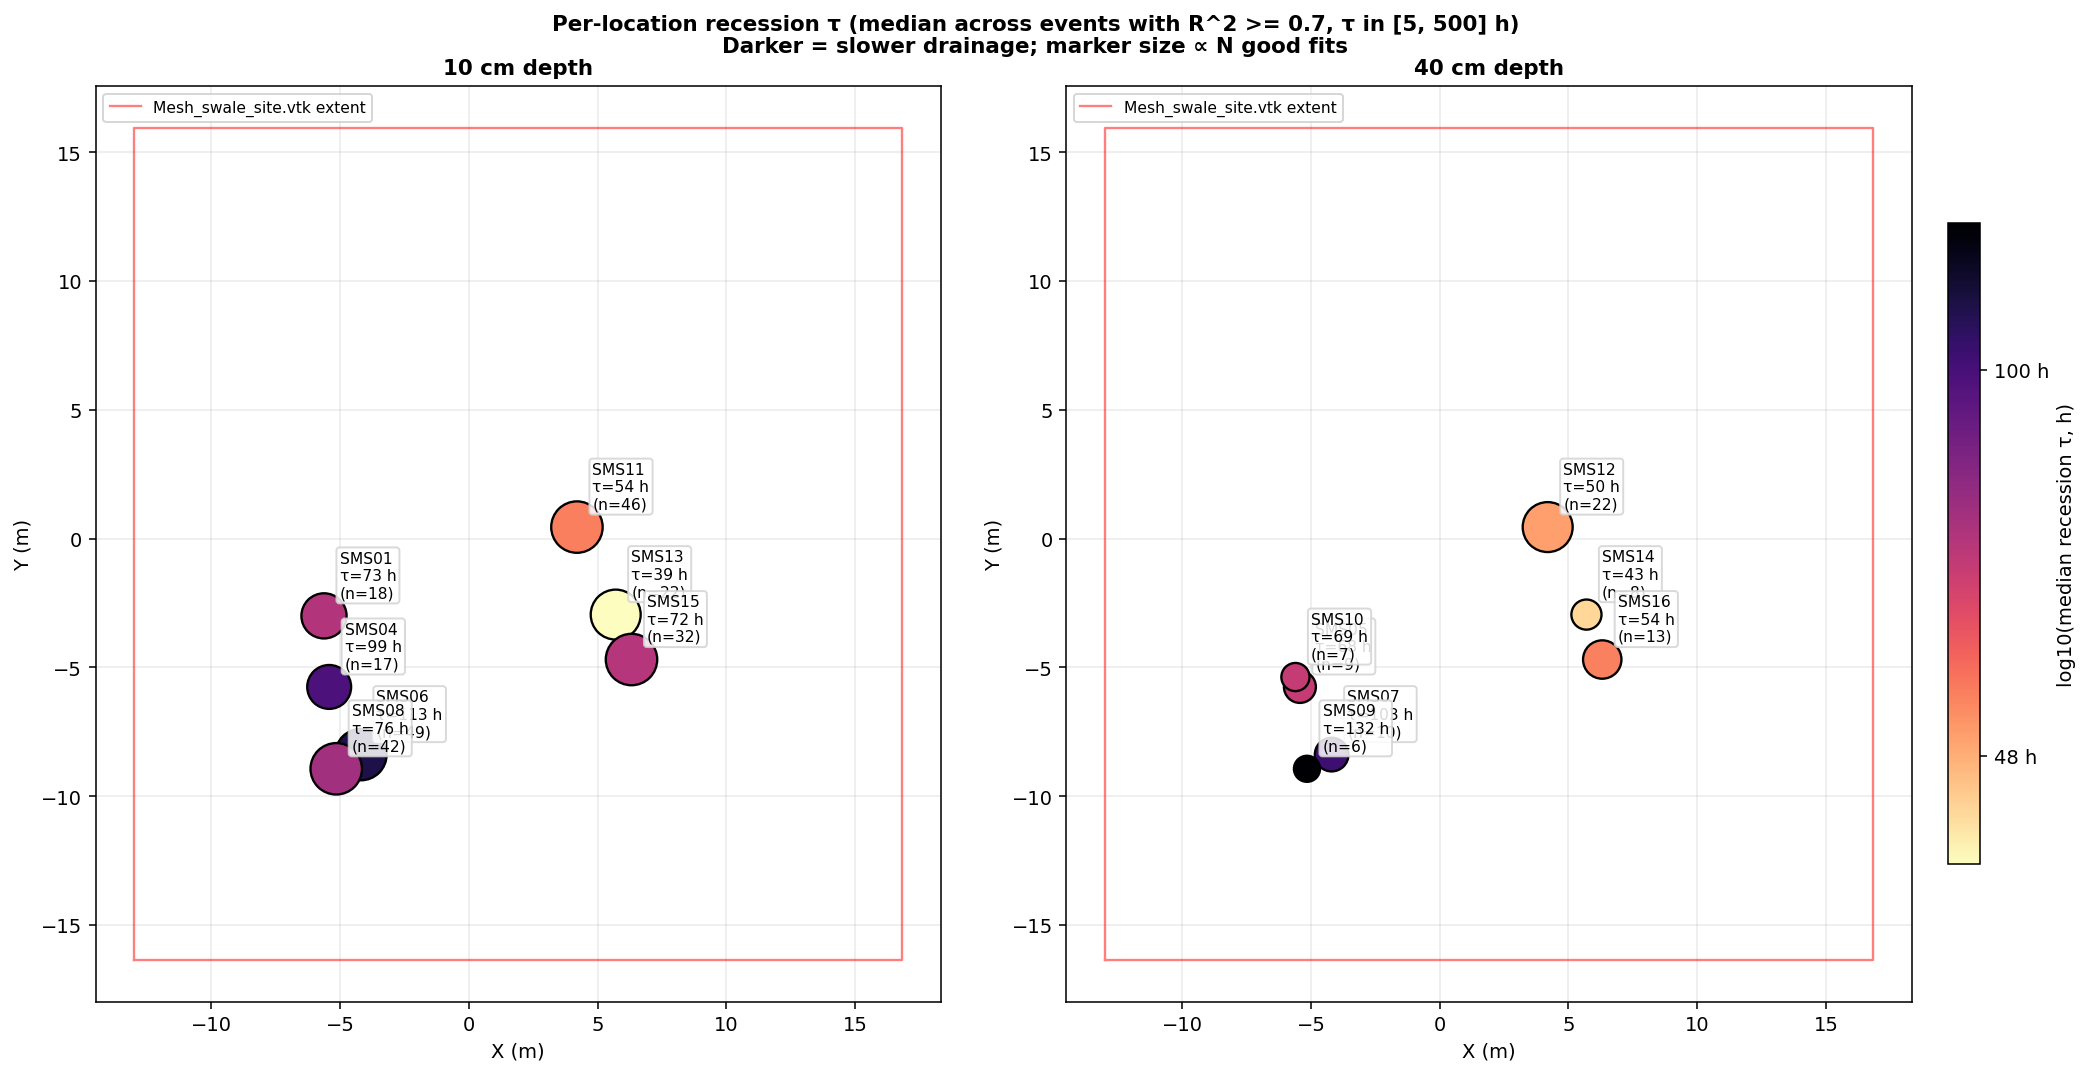
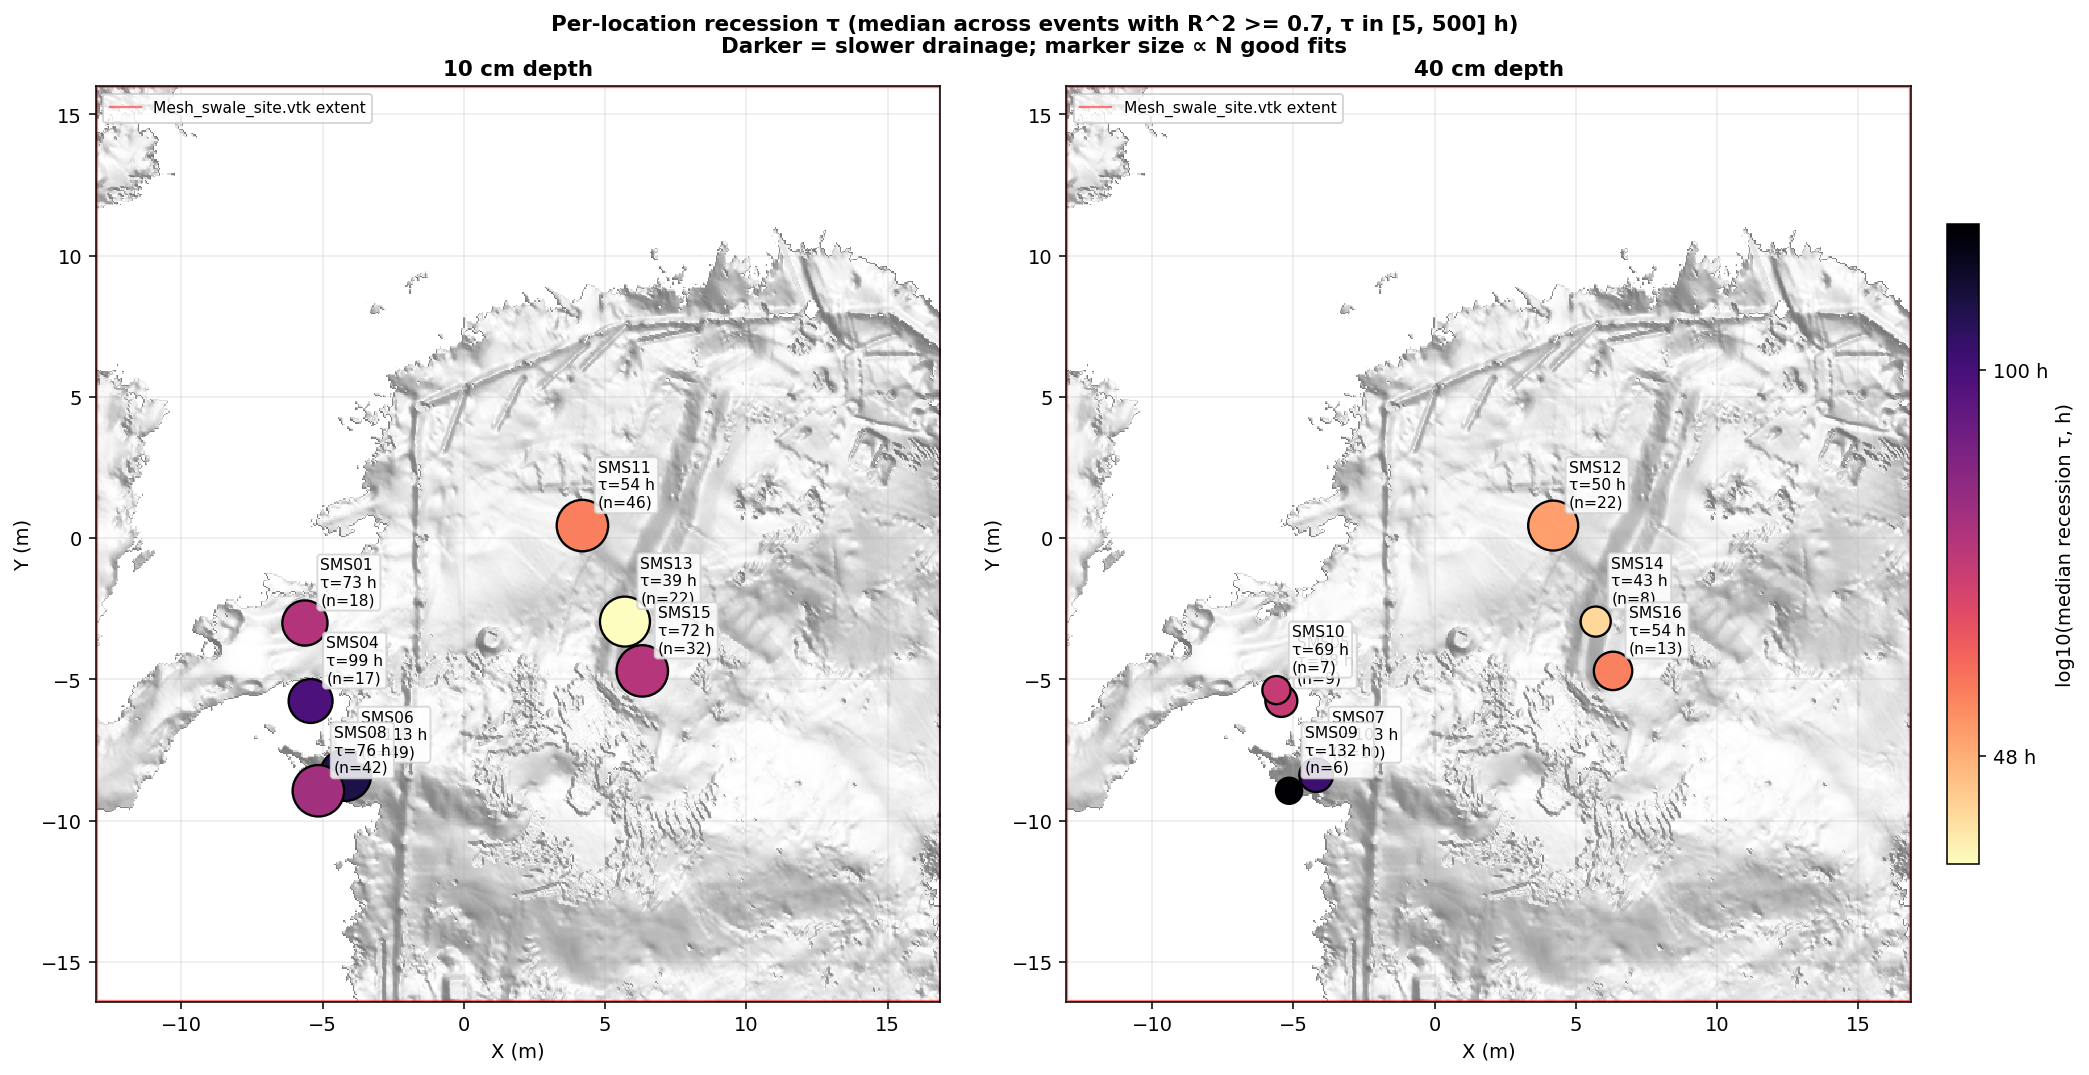
Add hillshade base layer from averaged .xyz scans to τ map (11)
New src/swale/hillshade.py averages the 5 dense con_sw_and_for_*
scans (already cached as 1000x1000 histograms), applies the canonical
frame transform, crops to the DEM mesh extent, and computes a
luminance hillshade via matplotlib.colors.LightSource. Output: a
canonical-frame 662x642 grid ready as an imshow base layer.

scripts/11_per_location_tau.py uses it as the background under both
panels (10 cm and 40 cm), so the swale embankment, the mound, and
the rolling control-side terrain are visible behind the τ markers.
Illumination defaults to NW azimuth + 45-degree altitude + 5x
vertical exaggeration (configurable via constants at the script
top).

diff --git a/src/swale/hillshade.py b/src/swale/hillshade.py
@@ -1,0 +1,194 @@
+"""Hillshade base layer for canonical-frame map plots.
+
+The 5 dense ``con_sw_and_for_*.xyz`` scans, averaged and projected to
+the canonical frame (+X=East, +Y=North), are the highest-resolution
+surface model we have for the swale site (10^7 points; ~1 mm per-bin
+std across scans). This module exposes one helper,
+:func:`load_canonical_hillshade`, that returns a grayscale hillshade
+image cropped to the cleaned DEM mesh extent — ready to drop in as a
+base layer under any plan-view scatter (sensor markers, recession-τ
+maps, etc.).
+
+The averaging follows the same logic as
+``scripts/15_xyz_average_dense.py`` (combined mean over the 5 cached
+histograms), and the transform follows
+:func:`swale.spatial_frame.xyz_rotation_table_default`, so the output
+is in the exact same frame as every other map plot in the project.
+"""
+
+from __future__ import annotations
+
+from pathlib import Path
+
+import matplotlib.colors as mcolors
+import numpy as np
+
+from swale.spatial_frame import (
+    load_canonical_dem_mesh,
+    xyz_rotation_table_default,
+)
+from swale.xyz_align import apply_transform, compute_or_load_histogram
+
+# The 5 dense scans averaged for the hillshade. Same list as
+# scripts/15_xyz_average_dense.py — keep in sync if scans change.
+_DENSE_FILES: tuple[str, ...] = (
+    "24.05.30_-_con_sw_and_for_2_13_23_43.xyz",
+    "24.05.30_-_con_sw_and_for_3_11_56_35.xyz",
+    "24.05.30_-_con_sw_and_for_3_12_16_16.xyz",
+    "24.05.30_-_con_sw_and_for_11_24_35.xyz",
+    "24.05.30_-_con_sw_and_for_11_59_00.xyz",
+)
+
+_DEFAULT_BINS_XY: tuple[int, int] = (1000, 1000)
+_MIN_POINTS_FOR_BIN = 2
+
+
+def _repo_root() -> Path:
+    return Path(__file__).resolve().parents[2]
+
+
+def _averaged_mean_z(
+    xyz_dir: Path,
+    cache_dir: Path,
+    bins_xy: tuple[int, int],
+) -> tuple[np.ndarray, tuple[float, float, float, float]]:
+    """Combined mean-Z over the 5 dense scans + their shared raw extent."""
+    zsums, counts, extents = [], [], []
+    for name in _DENSE_FILES:
+        zsum, count, summary = compute_or_load_histogram(
+            xyz_dir / name, cache_dir, bins_xy=bins_xy,
+        )
+        zsums.append(zsum)
+        counts.append(count)
+        extents.append((summary.x_min, summary.x_max,
+                         summary.y_min, summary.y_max))
+    total_zsum = sum(zsums)
+    total_count = sum(counts)
+    with np.errstate(invalid="ignore", divide="ignore"):
+        mean_z = np.where(
+            total_count >= _MIN_POINTS_FOR_BIN,
+            total_zsum / np.maximum(total_count, 1),
+            np.nan,
+        )
+    # Histograms share extent to within sub-cm; take the first.
+    return mean_z, extents[0]
+
+
+def _crop_to_bbox(
+    image: np.ndarray,
+    extent: tuple[float, float, float, float],
+    bbox: tuple[float, float, float, float],
+) -> tuple[np.ndarray, tuple[float, float, float, float]]:
+    """Crop an imshow-style 2-D image (rows=y, cols=x) to a sub-bbox.
+
+    Both ``extent`` and ``bbox`` are ``(x_min, x_max, y_min, y_max)``
+    in the same coordinate frame. The returned extent reflects the
+    actual pixel boundaries (which align to the source grid; the
+    requested bbox is snapped outward to the nearest cell edge).
+    """
+    x0, x1, y0, y1 = extent
+    bx0, bx1, by0, by1 = bbox
+    ny, nx = image.shape
+    dx = (x1 - x0) / nx
+    dy = (y1 - y0) / ny
+
+    bx0_c = max(bx0, x0); bx1_c = min(bx1, x1)
+    by0_c = max(by0, y0); by1_c = min(by1, y1)
+
+    i0 = max(int(np.floor((bx0_c - x0) / dx)), 0)
+    i1 = min(int(np.ceil((bx1_c - x0) / dx)), nx)
+    j0 = max(int(np.floor((by0_c - y0) / dy)), 0)
+    j1 = min(int(np.ceil((by1_c - y0) / dy)), ny)
+
+    if i1 <= i0 or j1 <= j0:
+        raise RuntimeError(
+            f"crop produced empty image: extent={extent} bbox={bbox}"
+        )
+    cropped = image[j0:j1, i0:i1]
+    extent_c = (x0 + i0 * dx, x0 + i1 * dx,
+                y0 + j0 * dy, y0 + j1 * dy)
+    return cropped, extent_c
+
+
+def load_canonical_hillshade(
+    *,
+    xyz_dir: Path | None = None,
+    cache_dir: Path | None = None,
+    dem_mesh_path: Path | None = None,
+    bins_xy: tuple[int, int] = _DEFAULT_BINS_XY,
+    azdeg: float = 315.0,
+    altdeg: float = 45.0,
+    vert_exag: float = 5.0,
+    crop_to_dem_mesh: bool = True,
+) -> tuple[np.ndarray, tuple[float, float, float, float]]:
+    """Return a canonical-frame hillshade image + its imshow extent.
+
+    Pipeline:
+      1. Load the 5 dense ``con_sw_and_for_*`` scan histograms from
+         ``cache/xyz_histograms``.
+      2. Combine into one mean-Z grid (same as 15_xyz_average_dense).
+      3. Apply the canonical-frame transform (flip_ud + 180-degree
+         rotation, per :func:`swale.spatial_frame.xyz_rotation_table_default`).
+      4. Crop to the DEM mesh extent if ``crop_to_dem_mesh`` is True.
+      5. Compute a luminance hillshade via
+         :class:`matplotlib.colors.LightSource` with the given azimuth,
+         altitude, and vertical exaggeration.
+
+    Args:
+        xyz_dir: Directory holding the raw ``.xyz`` files. Defaults to
+            ``<repo>/data/DEM_xyz``.
+        cache_dir: Directory holding the cached histograms. Defaults to
+            ``<repo>/cache/xyz_histograms``.
+        dem_mesh_path: VTK mesh used to compute the crop bbox. Defaults
+            to ``<repo>/data/DEM/Mesh_swale_site.vtk``.
+        bins_xy: Histogram grid resolution (must match the cache).
+        azdeg, altdeg: Solar illumination, NW + 45 degrees by default.
+        vert_exag: Vertical exaggeration for hillshade contrast. The
+            site has ~3 m of relief over ~30 m, so a 5x exaggeration
+            keeps the swale/mound features visible without blowing out.
+        crop_to_dem_mesh: If True (default), crop the averaged grid to
+            the DEM mesh bbox so the hillshade only covers the cleaned
+            survey area.
+
+    Returns:
+        ``(hillshade, extent)`` where ``hillshade`` is a 2-D float
+        array in [0, 1] (NaN where the averaged grid had no data) and
+        ``extent`` is ``(x_min, x_max, y_min, y_max)`` ready for
+        ``ax.imshow(..., origin='lower', extent=extent)``.
+    """
+    repo_root = _repo_root()
+    xyz_dir = xyz_dir or (repo_root / "data" / "DEM_xyz")
+    cache_dir = cache_dir or (repo_root / "cache" / "xyz_histograms")
+    dem_mesh_path = dem_mesh_path or (repo_root / "data" / "DEM"
+                                       / "Mesh_swale_site.vtk")
+
+    mean_z, raw_extent = _averaged_mean_z(xyz_dir, cache_dir, bins_xy)
+
+    flip_ud, rot_cw = xyz_rotation_table_default()
+    image, extent = apply_transform(
+        mean_z.T, raw_extent,
+        flip_ud=flip_ud, rot_cw_steps=rot_cw,
+    )
+
+    if crop_to_dem_mesh:
+        mesh = load_canonical_dem_mesh(dem_mesh_path)
+        b = mesh.bounds
+        image, extent = _crop_to_bbox(
+            image, extent, (b.x_min, b.x_max, b.y_min, b.y_max),
+        )
+
+    # Fill NaN with the in-cell mean before hillshade compute (LightSource
+    # propagates NaN aggressively); restore NaN mask on the output.
+    finite = np.isfinite(image)
+    if not finite.any():
+        raise RuntimeError("averaged grid is all NaN after cropping")
+    filled = np.where(finite, image, float(np.nanmean(image)))
+
+    x0, x1, y0, y1 = extent
+    dx = (x1 - x0) / image.shape[1]
+    dy = (y1 - y0) / image.shape[0]
+
+    ls = mcolors.LightSource(azdeg=azdeg, altdeg=altdeg)
+    hs = ls.hillshade(filled, vert_exag=vert_exag, dx=dx, dy=dy)
+    hs = np.where(finite, hs, np.nan)
+    return hs, extent

diff --git a/scripts/11_per_location_tau.py b/scripts/11_per_location_tau.py
@@ -30,6 +30,7 @@ import numpy as np
 import polars as pl
 
 from swale.config import load_settings
+from swale.hillshade import load_canonical_hillshade
 from swale.sites import sensor_pairs
 from swale.spatial_frame import load_canonical_dem_mesh
 
@@ -56,6 +57,12 @@ MARKER_SIZE_MIN = 80
 MARKER_SIZE_MAX = 700
 LABEL_PIXEL_OFFSET = 8
 CMAP_TAU = "magma_r"            # darker = slower drainage = higher tau
+
+# Hillshade base layer (canonical frame, cropped to DEM mesh bbox).
+HILLSHADE_AZDEG = 315.0         # NW illumination
+HILLSHADE_ALTDEG = 45.0
+HILLSHADE_VERT_EXAG = 5.0
+HILLSHADE_ALPHA = 0.55          # blend strength against the white canvas
 
 
 def get_dem_bbox() -> tuple[float, float, float, float] | None:
@@ -87,8 +94,19 @@ def aggregate_tau(df: pl.DataFrame) -> pl.DataFrame:
 
 def plot_map(ax, depth_cm: int, agg: pl.DataFrame,
               pairs_by_sid: dict, dem_bbox: tuple | None,
+              hillshade: tuple | None,
               vmin: float, vmax: float):
     """Render one map panel for the given depth."""
+    # Hillshade base layer (under everything else)
+    if hillshade is not None:
+        hs_img, hs_extent = hillshade
+        ax.imshow(
+            hs_img, origin="lower", extent=hs_extent,
+            cmap="gray", vmin=0.0, vmax=1.0,
+            alpha=HILLSHADE_ALPHA, interpolation="nearest",
+            aspect="equal", zorder=0,
+        )
+
     sub = agg.filter(
         (pl.col("depth_cm") == depth_cm)
         & (pl.col("n_good_fits") >= N_MIN_GOOD_FITS)
@@ -166,6 +184,14 @@ def main() -> None:
 
     dem_bbox = get_dem_bbox()
 
+    print("Loading averaged-XYZ hillshade (cropped to DEM mesh) ...")
+    hillshade = load_canonical_hillshade(
+        azdeg=HILLSHADE_AZDEG,
+        altdeg=HILLSHADE_ALTDEG,
+        vert_exag=HILLSHADE_VERT_EXAG,
+    )
+    print(f"  shape={hillshade[0].shape}  extent={hillshade[1]}")
+
     # Shared colour scale across both depths so the comparison is direct.
     good_taus = agg.filter(
         pl.col("n_good_fits") >= N_MIN_GOOD_FITS
@@ -180,7 +206,8 @@ def main() -> None:
                               constrained_layout=True)
     sc_last = None
     for ax, depth in zip(axes, DEPTHS):
-        sc = plot_map(ax, depth, agg, pairs_by_sid, dem_bbox, vmin, vmax)
+        sc = plot_map(ax, depth, agg, pairs_by_sid, dem_bbox,
+                      hillshade, vmin, vmax)
         if sc is not None:
             sc_last = sc
 
